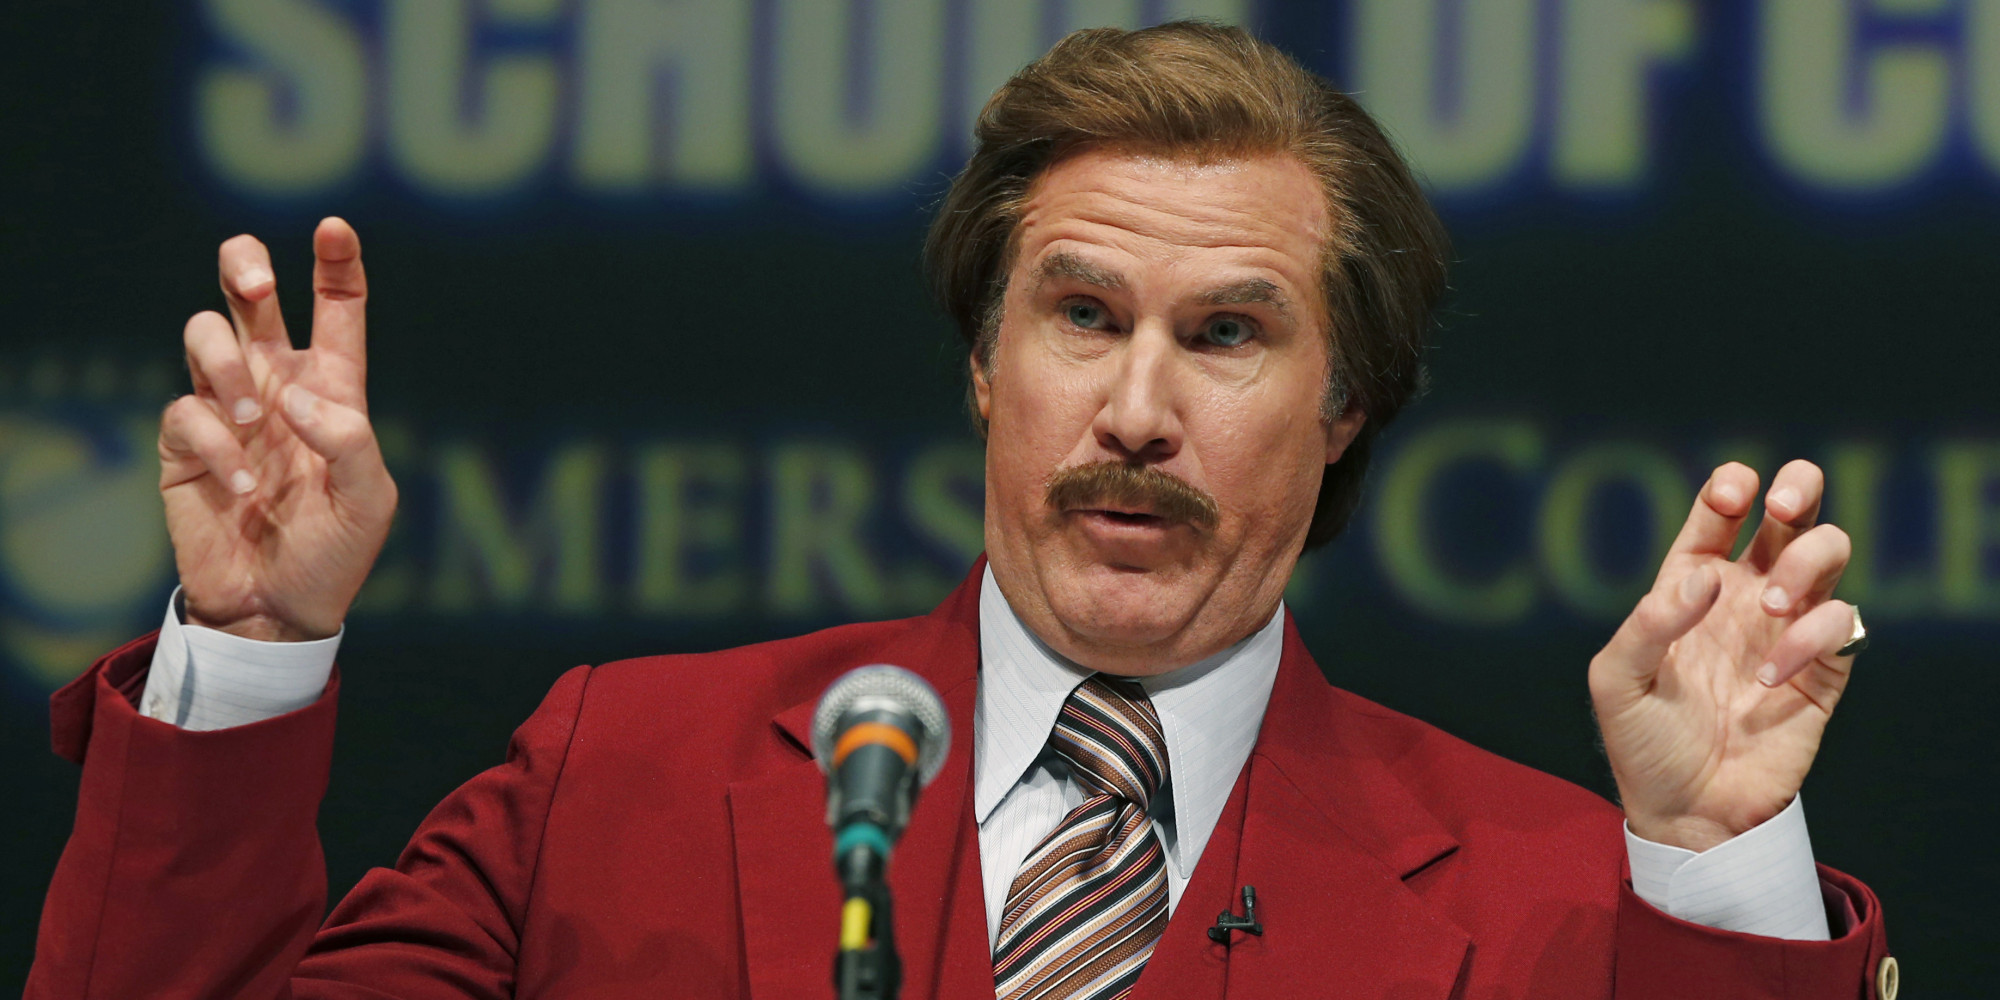
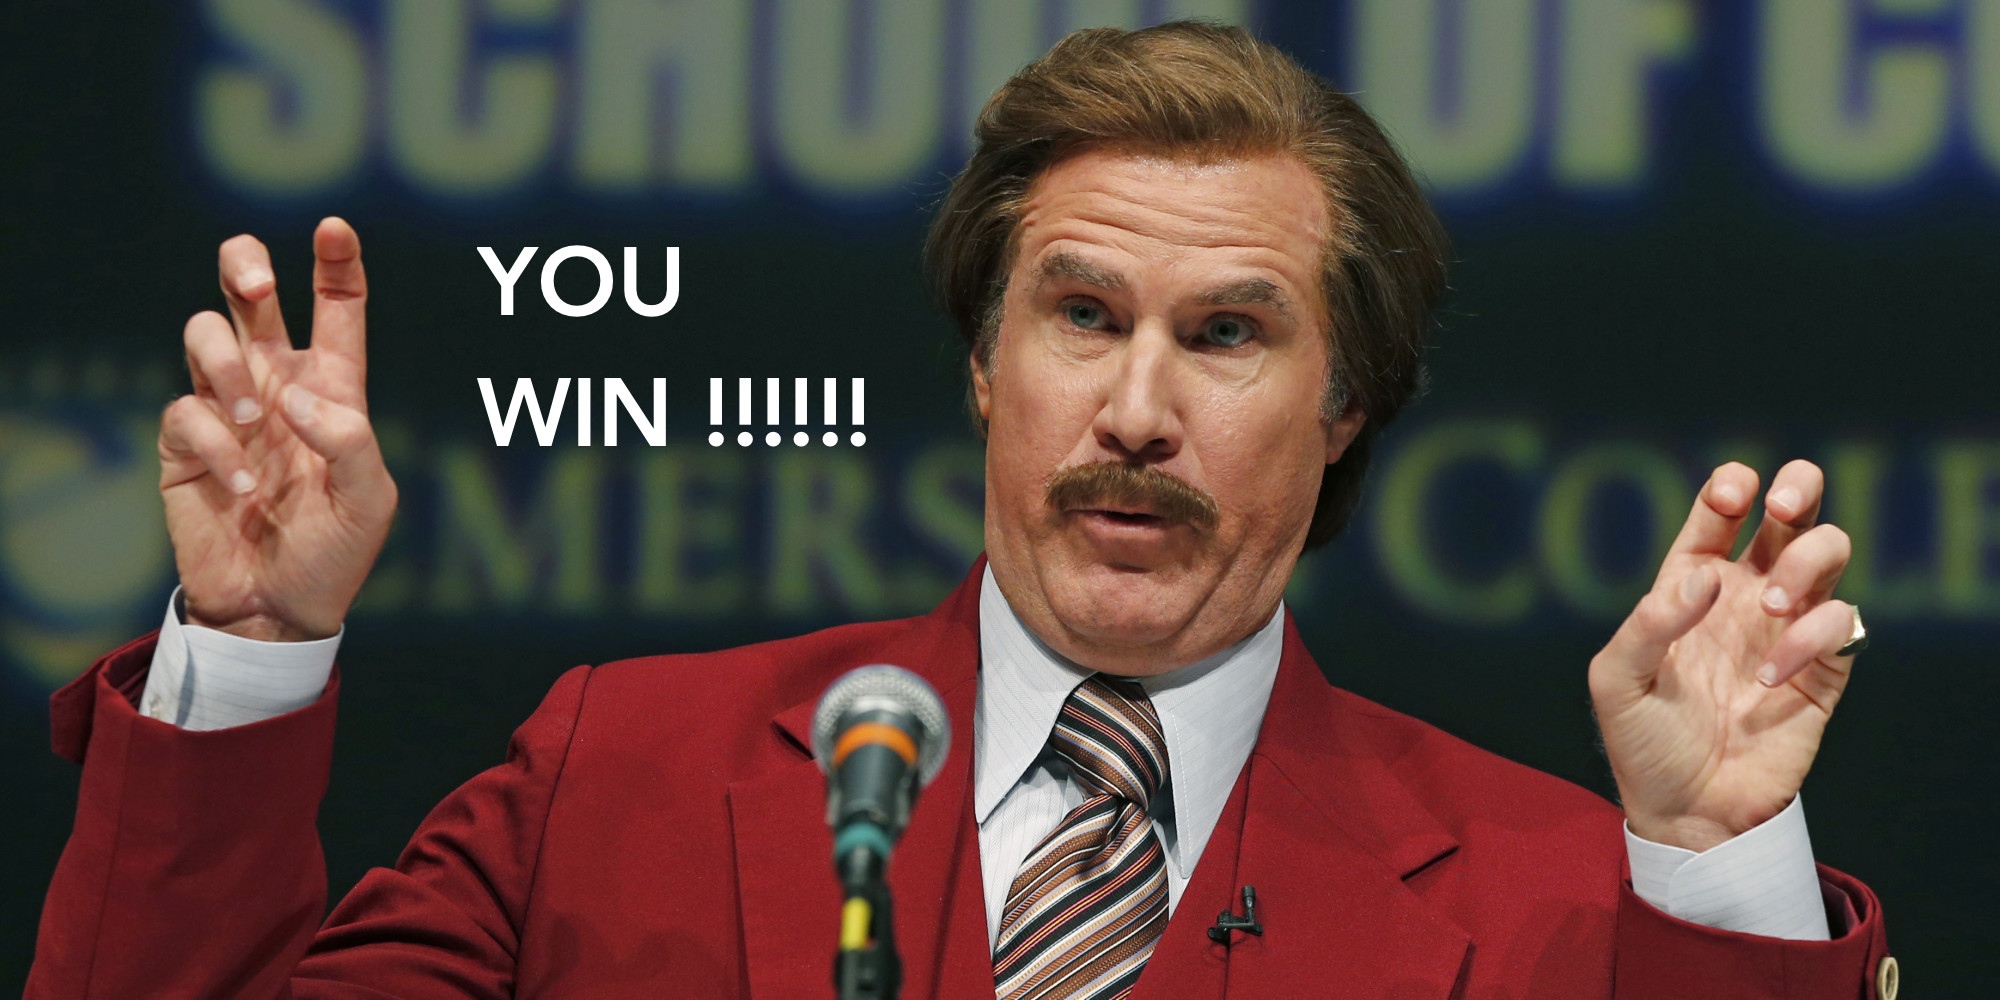
victory! pt.2 (done)

Changed region(s): [[0.217, 0.372, 0.434, 0.465], [0.217, 0.248, 0.341, 0.341], [0.403, 0.806, 0.434, 0.837]]

diff --git a/7/cow/julian_kalogerakis/script.js b/7/cow/julian_kalogerakis/script.js
@@ -15,15 +15,23 @@ window.addEventListener('mousemove', function(e){
 	moveMeter();
     });
 
+function youFoundEm(){
+    win = document.getElementById("meter");
+    content = document.createElement("center");
+    win.appendChild(content);
+    content.innerHTML = "Y O U     W I N     ! ! ! <br> <img src='willF1.jpg'>";
+}
+
 function moveMeter(){
     dist = Math.sqrt(Math.pow((mousex-fX),2) + Math.pow((mousey-fY),2));
     maxDist = Math.sqrt(Math.pow(window.innerHeight,2) + Math.pow(window.innerWidth,2));
     percentage = dist/maxDist;
-    console.log("dist: " + dist);
-    console.log("max dist: " + maxDist);
-    console.log("percentage: " + percentage);
     m = document.getElementById("temperature");
     m.style.marginLeft = (1-percentage)*window.innerWidth + "px";
+    if(dist < 45){
+	wildFerrell.style.visibility = "visible";
+	youFoundEm();
+    }
 }
 
 function reset(){

diff --git a/7/cow/julian_kalogerakis/beast.html b/7/cow/julian_kalogerakis/beast.html
@@ -14,13 +14,20 @@
      height: 65px;
      width: 15px;
     }
+    #Ferrell {
+     visibility: hidden;
+    }
+    .center{
+     font-size: 24px;
+    }
   </style>
   <body>
     <div id="meter">
     </div>
+
     <div id="temperature">
     </div>
-    
+
     <img id="Ferrell" src="willF2.jpg" class="img">
     <script src="script.js"></script>
   </body>
